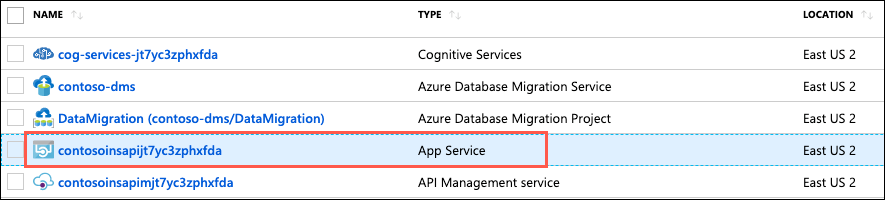
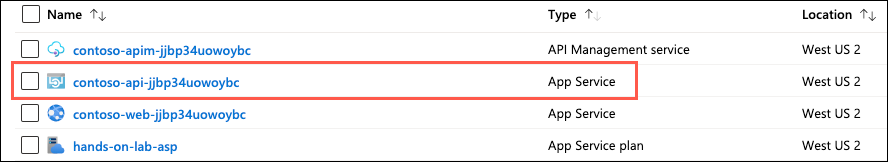
Exercise 4 updates

diff --git a/Hands-on lab/HOL step-by-step - App modernization.md b/Hands-on lab/HOL step-by-step - App modernization.md
@@ -527,7 +527,7 @@ In this task, you look at the [SQL Data Discovery and Classification](https://do
 
     ![The DOB recommendation is highlighted in the recommendations list.](media/ads-data-discovery-and-classification-recommendations-dob.png "Data Discovery & Classification")
 
-5. ContosoInsurance is very concerned about the potential cost of any GDPR violations, and would like to label any GDPR fields as _Highly Confidential - GDPR_. To update this, select **+ Add classification** in the Data Discovery & Classification toolbar.
+5. Contoso is very concerned about the potential cost of any GDPR violations, and would like to label any GDPR fields as _Highly Confidential - GDPR_. To update this, select **+ Add classification** in the Data Discovery & Classification toolbar.
 
    ![The +Add classification button is highlighted in the toolbar.](media/ads-data-discovery-and-classification-add-classification.png "Data Discovery & Classification")
 
@@ -860,7 +860,7 @@ In this task, you open an RDP connection to the LabVM, and downloading a copy of
 
 ### Task 2: Open starter solution with Visual Studio
 
-In this task, you will open the `Contoso` starter solution in Visual Studio. The Visual Studio solution contains the following projects:
+In this task, you open the `Contoso` starter solution in Visual Studio. The Visual Studio solution contains the following projects:
 
 - **Contoso.Azure**: Common library containing helper classes used by other projects within the solution to communicate with Azure services.
 - **Contoso.Data**: Library containing data access objects.
@@ -884,7 +884,7 @@ In this task, you will open the `Contoso` starter solution in Visual Studio. The
 
     ![On the security warning dialog, the Ask me for every project in this solution box is unchecked and highlighted.](media/visual-studio-security-warning.png "Visual Studio")
 
-5. If you see errors in the Error list pertaining to a version conflict, you will need to install the .NET CORE 2.2 framework, using the steps below. If you don't see these errors, you can skip to the next task.
+5. If you see errors in the Error list pertaining to a version conflict, you need to install the .NET CORE 2.2 framework, using the steps below. If you don't see these errors, you can skip to the next task.
 
     ![Error pane in Visual Studio](media/vs-net-core-errors.png "Visual Studio errors")
 
@@ -904,13 +904,13 @@ In this task, you will open the `Contoso` starter solution in Visual Studio. The
 
     ![The .NET Core 2.2 installer is displayed, and Install is highlighted.](media/installed-net-core-2-2.png "Install .NET Core 2.2.")
 
-10. Select **Close** when the installation finishes. You will then need to close and reopen Visual Studio and the `Contoso` solution.
+10. Select **Close** when the installation finishes. You then need to close and reopen Visual Studio and the `Contoso` solution.
 
 ### Task 3: Update Web API to use Key Vault
 
-In this task, you will update the `Contoso.WebApi` project to use Azure Key Vault for storing and retrieving application secrets. You will start by adding the connection information to the `appsettings.json` file in the `Contoso.WebApi` project, and then add some code to enable the use of Azure Key Vault.
+In this task, you update the `Contoso.WebApi` project to use Azure Key Vault for storing and retrieving application secrets. You will start by adding the connection information to the `appsettings.json` file in the `Contoso.WebApi` project, and then add some code to enable the use of Azure Key Vault.
 
-> The required NuGet package to enable interaction with Key Vault has already been added to the project to save time. The package added to facilitate this is: `Microsoft.Extensions.Configuration.AzureKeyVault`.
+> The required NuGet package to enable interaction with Key Vault has already been referenced in the project to save time. The package added to facilitate this is: `Microsoft.Extensions.Configuration.AzureKeyVault`.
 
 1. In Visual Studio, expand the `Contoso.WebApi` project in the Solution Explorer, locate the `Program.cs` file and open it by double-clicking on it.
 
@@ -955,7 +955,7 @@ In this task, you will update the `Contoso.WebApi` project to use Azure Key Vaul
 
 Before deploying the Web API to Azure, you need to add the required application settings into the configuration for the Azure API App. In this task, you will use the advanced configuration editor in your API App to add in the configuration settings required to connect to and retrieve secrets from Key Vault.
 
-1. In the [Azure portal](https://portal.azure.com), navigate to your **API App** by selecting **Resource groups** from the left-hand navigation menu, selecting the **hands-on-lab-SUFFIX** resource group, and selecting the **contosoinsapi-UniqueId** App service from the list of resources.
+1. In the [Azure portal](https://portal.azure.com), navigate to your **API App** by selecting **Resource groups** from the left-hand navigation menu, selecting the **hands-on-lab-SUFFIX** resource group, and selecting the **contoso-api-UniqueId** App service from the list of resources.
 
    ![The API App resource is highlighted in the list of resources.](media/azure-resources-api-app.png "API App")
 
@@ -1025,39 +1025,43 @@ In this task, you will use Visual Studio to deploy the API project into an API A
 
     ![The Contoso.WebApi project is selected, and Publish is highlighted in the context menu.](media/e4-02.png "Publish Web API")
 
-2. On the **Pick a publish target** dialog, select **App Service** and choose **Select Existing**, and then select **Publish**.
+2. On the **Pick a publish target** dialog, select **App Service** and choose **Select Existing**, and then select **Create Profile**.
 
-    ![On the Pick a publish target screen, App Service is selected, the Select Existing radio button is selected, and the Publish button is highlighted..](media/e4-05.png "Pick a publish target")
+    ![On the Pick a publish target screen, App Service is selected, the Select Existing radio button is selected, and the Create Provile button is highlighted..](media/visual-studio-publish-api-app.png "Pick a publish target")
 
-3. On the App Service dialog, select your Azure subscription, logging in if necessary on with your credentials and ensure the subscription you published earlier is selected, then select your API App (resource starting with "contosoins**api**") under your hands-on-lab-SUFFIX resource group.
+3. On the App Service dialog, select your Azure subscription, logging in if necessary on with your credentials and ensure the subscription you published earlier is selected, then select your API App (resource starting with "contoso-**api**") under your hands-on-lab-SUFFIX resource group.
 
-    ![Select Existing App Service window. App Services are listed under hands-on lab resource group and contosoinsapi App Service is highlighted.](media/e4-06.png "Select App Service")
+    ![Select Existing App Service window. App Services are listed under hands-on lab resource group and contoso-api App Service is highlighted.](media/visual-studio-publish-app-service-api.png "Select App Service")
 
-4. Select **OK**, which will start the processing of publishing your Web API to your Azure API App.
+4. Select **OK**.
 
-5. In the Visual Studio **Web Publish Activity** view, you will see a status that indicates the Web API was published successfully, along with the URL to the site.
+5. Back on the Visual Studio Publish page for the `Contoso.WebApi` project, select **Publish** to start the process of publishing your Web API to your Azure API App.
 
-    ![Web Publish Activity view with the publish process status and API site url](media/e4-07.png "Web Publish Activity")
+    ![The Publish button is highlighted next to the newly created publish profile on the Publish page.](media/visual-studio-publish-api.png "Publish")
+
+6. In the Visual Studio **Web Publish Activity** view, you will see a status that indicates the Web API was published successfully, along with the URL to the site.
+
+    ![Web Publish Activity view with the publish process status and API site url](media/visual-studio-web-publish-activity-api.png "Web Publish Activity")
 
     > If you don't see the **Web Publish Activity** view, you can find it on View menu-> Other Windows -> Microsoft Azure Activity Log.
 
-6. A web browser should open to the published site. If not, open the URL of the published Web API in a browser window. Initially, you will see a message that the page cannot be found.
+7. A web browser should open to the published site. If not, open the URL of the published Web API in a browser window. Initially, you will see a message that the page cannot be found.
 
     ![A page can't be found error message is displayed in the web browser.](media/web-api-publish-page-not-found.png "Page not found")
 
-7. To validate the API App is function property, add `/swagger` to the end of the URL in your browser's address bar (e.g., <https://contosoinsapijjbp34uowoybc.azurewebsites.net/swagger/>). This will bring up the Swagger profile of your API, where you will a list of the available API endpoints.
+8. To validate the API App is function property, add `/swagger` to the end of the URL in your browser's address bar (e.g., <https://contoso-api-jjbp34uowoybc.azurewebsites.net/swagger/>). This will bring up the Swagger UI page of your API, which displays a list of the available API endpoints.
 
-    ![Swagger screen displayed for the API App.](media/e4-08.png "Validate published Web API")
+    ![Swagger screen displayed for the API App.](media/swagger-ui.png "Validate published Web API")
 
-8. You can test the functionality of the API by selecting one of the endpoints, and selecting **Try it out**.
+9. You can test the functionality of the API by selecting one of the `GET` endpoints, and selecting **Try it out**.
 
     ![The Try it out button is highlighted under the Dependents GET endpoint](media/swagger-try-it-out.png "Swagger")
 
-9. Select **Execute**.
+10. Select **Execute**.
 
     ![The Execute button is displayed.](media/swagger-execute.png "Swagger")
 
-10. In the Response, you will see a Response Code of 200, and JSON objects in the Response body.
+11. In the Response, you will see a Response Code of 200, and JSON objects in the Response body.
 
     ![The response to the execute request is displayed.](media/swagger-execute-response.png "Swagger")
 
@@ -1091,7 +1095,7 @@ In this task, you will prepare your Web App to work with the API App by adding t
 
     > **Note**: If you have multiple Azure subscriptions, and the account you are using for this hands-on lab is not your default account, you may need to run `az account list --output table` at the Azure Cloud Shell prompt to output a list of your subscriptions, then copy the Subscription Id of the account you are using for this lab, and then run `az account set --subscription <your-subscription-id>` to set the appropriate account for the Azure CLI commands.
 
-5. In the output, you will copy two values for use in the next step. Copy the **DefaultHostName** value for the your API App (the resource name will start with contosoins**api**) and also copy the Web App name value.
+5. In the output, you will copy two values for use in the next step. Copy the **DefaultHostName** value for the your API App (the resource name will start with contoso-**api**) and also copy the Web App name value.
 
     ![The Function App Name value is highlighted in the output of the command above.](media/azure-cloud-shell-az-webapp-list.png "Azure Cloud Shell")
 
@@ -1124,9 +1128,9 @@ In this task, you will publish the `Contoso.Web` application into an Azure Web A
 
     ![Select existing is selected and highlighted on the Pick a publish target dialog.](media/vs-web-publish-target.png "Publish")
 
-3. On the App Service dialog, select your Azure subscription, logging in if necessary on with your credentials and ensure the subscription you published earlier is selected, then select your Web App (resource starting with "contosoins**web**") under your hands-on-lab-SUFFIX resource group.
+3. On the App Service dialog, select your Azure subscription, logging in if necessary on with your credentials and ensure the subscription you published earlier is selected, then select your Web App (resource starting with "contoso-**web**") under your hands-on-lab-SUFFIX resource group.
 
-    ![Select Existing App Service window. App Services are listed under hands-on lab resource group and contosoinsweb App Service is highlighted.](media/vs-web-publish-app-service.png "Select App Service")
+    ![Select Existing App Service window. App Services are listed under hands-on lab resource group and contoso-web App Service is highlighted.](media/vs-web-publish-app-service.png "Select App Service")
 
 4. Select **OK**, which will start the processing of publishing your Web API to your Azure API App.
 
@@ -1406,9 +1410,9 @@ In this task, you will deploy your function into an Azure Function App, where it
 
     ![Select existing is selected and highlighted on the Pick a publish target dialog.](media/vs-function-app-publish-target.png "Publish")
 
-3. On the App Service dialog, select your Azure subscription, logging in if necessary on with your credentials and ensure the subscription you published earlier is selected, then select your Function App (resource starting with "contosoins**func**") under your hands-on-lab-SUFFIX resource group.
+3. On the App Service dialog, select your Azure subscription, logging in if necessary on with your credentials and ensure the subscription you published earlier is selected, then select your Function App (resource starting with "contoso-**func**") under your hands-on-lab-SUFFIX resource group.
 
-    ![Select Existing App Service window. App Services are listed under hands-on lab resource group and contosoinsfunc App Service is highlighted.](media/vs-function-app-publish-app-service.png "Select App Service")
+    ![Select Existing App Service window. App Services are listed under hands-on lab resource group and contoso-func App Service is highlighted.](media/vs-function-app-publish-app-service.png "Select App Service")
 
 4. Select **OK**, which will start the processing of publishing your Web API to your Azure API App.
 
@@ -1420,7 +1424,7 @@ In this task, you will deploy your function into an Azure Function App, where it
 
 In this task, you will add Application Insights to your Function App in the Azure Portal, to be able to collect insights into requests against the Function.
 
-1. In the [Azure portal](https://portal.azure.com), navigate to your **Function App** by selecting **Resource groups** from the left-hand navigation menu, selecting the **hands-on-lab-SUFFIX** resource group, and selecting the **contosoinsfunc-UniqueId** App service from the list of resources.
+1. In the [Azure portal](https://portal.azure.com), navigate to your **Function App** by selecting **Resource groups** from the left-hand navigation menu, selecting the **hands-on-lab-SUFFIX** resource group, and selecting the **contoso-func-UniqueId** App service from the list of resources.
 
    ![The Function App resource is highlighted in the list of resources.](media/azure-resources-function-app.png "Function App")
 
@@ -1478,7 +1482,7 @@ In this task, you will add the URL of your Azure Function App to the Application
     az webapp list -g <your-resource-group-name> --output table
     ```
 
-7. In the output, you will copy the name of Web App (the resource name will start with contosoins**web**) into a text editor for use below.
+7. In the output, you will copy the name of Web App (the resource name will start with contoso-**web**) into a text editor for use below.
 
     ![The Web App Name value is highlighted in the output of the command above.](media/azure-cloud-shell-az-webapp-list-web-app-name.png "Azure Cloud Shell")
 
@@ -1614,7 +1618,7 @@ Contoso has asked for the ability to conduct full-text searching on their policy
 
 In this task, you will run a search query against your search index to see how the addition of cognitive search skills enriches the data extracted from policy documents.
 
-1. In the [Azure portal](https://portal.azure.com), navigate to your **Search service** resource by selecting **Resource groups** from the left-hand navigation menu, selecting the **hands-on-lab-SUFFIX** resource group, and then selecting the **contosoinssearch-UniqueId** Search service resource from the list of resources.
+1. In the [Azure portal](https://portal.azure.com), navigate to your **Search service** resource by selecting **Resource groups** from the left-hand navigation menu, selecting the **hands-on-lab-SUFFIX** resource group, and then selecting the **contoso-search-UniqueId** Search service resource from the list of resources.
 
    ![The Search service resource is highlighted in the list of resources.](media/azure-resources-search.png "Search service")
 
@@ -1719,7 +1723,7 @@ In this task, you will import your API App into APIM, using the OpenAPI specific
 
     ![The Create from OpenAPI specification dialog is displayed and Full is highlighted](media/e8-t1-create-api-dialog.png "Create from OpenAPI specification")
 
-4. You will retrieve the value for the OpenAPI specification field from the `swagger` page of your API APP. (This will be the URL of your API app, which you can retrieve from its overview blade in the Azure portal) plus "/swagger". (e.g., <https://contosoinsapijt7yc3zphxfda.azurewebsites.net/swagger>).
+4. You will retrieve the value for the OpenAPI specification field from the `swagger` page of your API APP. (This will be the URL of your API app, which you can retrieve from its overview blade in the Azure portal) plus "/swagger". (e.g., <https://contoso-api-jt7yc3zphxfda.azurewebsites.net/swagger>).
 
 5. On the Swagger page for your API App, right-click on the `swagger/v1/swagger.json` file link just below the PolicyConnect API title, and select **Copy link address**.
 
@@ -1844,7 +1848,7 @@ In this task, you will use the Azure Cloud Shell and Azure CLI to update the `Ap
     az webapp list -g <your-resource-group-name> --output table
     ```
 
-5. In the output, you will copy the name of Web App (the resource name will start with contosoins**web**) into a text editor for use below.
+5. In the output, you will copy the name of Web App (the resource name will start with contoso-**web**) into a text editor for use below.
 
     ![The Web App Name value is highlighted in the output of the command above.](media/azure-cloud-shell-az-webapp-list-web-app-name.png "Azure Cloud Shell")
 
@@ -1873,7 +1877,7 @@ In this task, you will use the Azure Cloud Shell and Azure CLI to update the `Ap
 
 Duration: 15 minutes
 
-Since creating mobile apps is a long development cycle, Contoso is interested in using PowerApps to create mobile applications to add functionality not currently offered by their app rapidly. In this scenario, they want to be able to edit the Policy lookup values (Silver, Gold, Platinum, etc.), which they are unable to do in the current app. In this task, you will get them up and running with a new app created in PowerApps, which connects to the ContosoInsurance database and performs basic CRUD (Create, Read, Update, and Delete) operations against the Policies table.
+Since creating mobile apps is a long development cycle, Contoso is interested in using PowerApps to create mobile applications to add functionality not currently offered by their app rapidly. In this scenario, they want to be able to edit the Policy lookup values (Silver, Gold, Platinum, etc.), which they are unable to do in the current app. In this task, you will get them up and running with a new app created in PowerApps, which connects to the `ContosoInsurance` database and performs basic CRUD (Create, Read, Update, and Delete) operations against the Policies table.
 
 ### Task 1: Sign up for a PowerApps account
 
